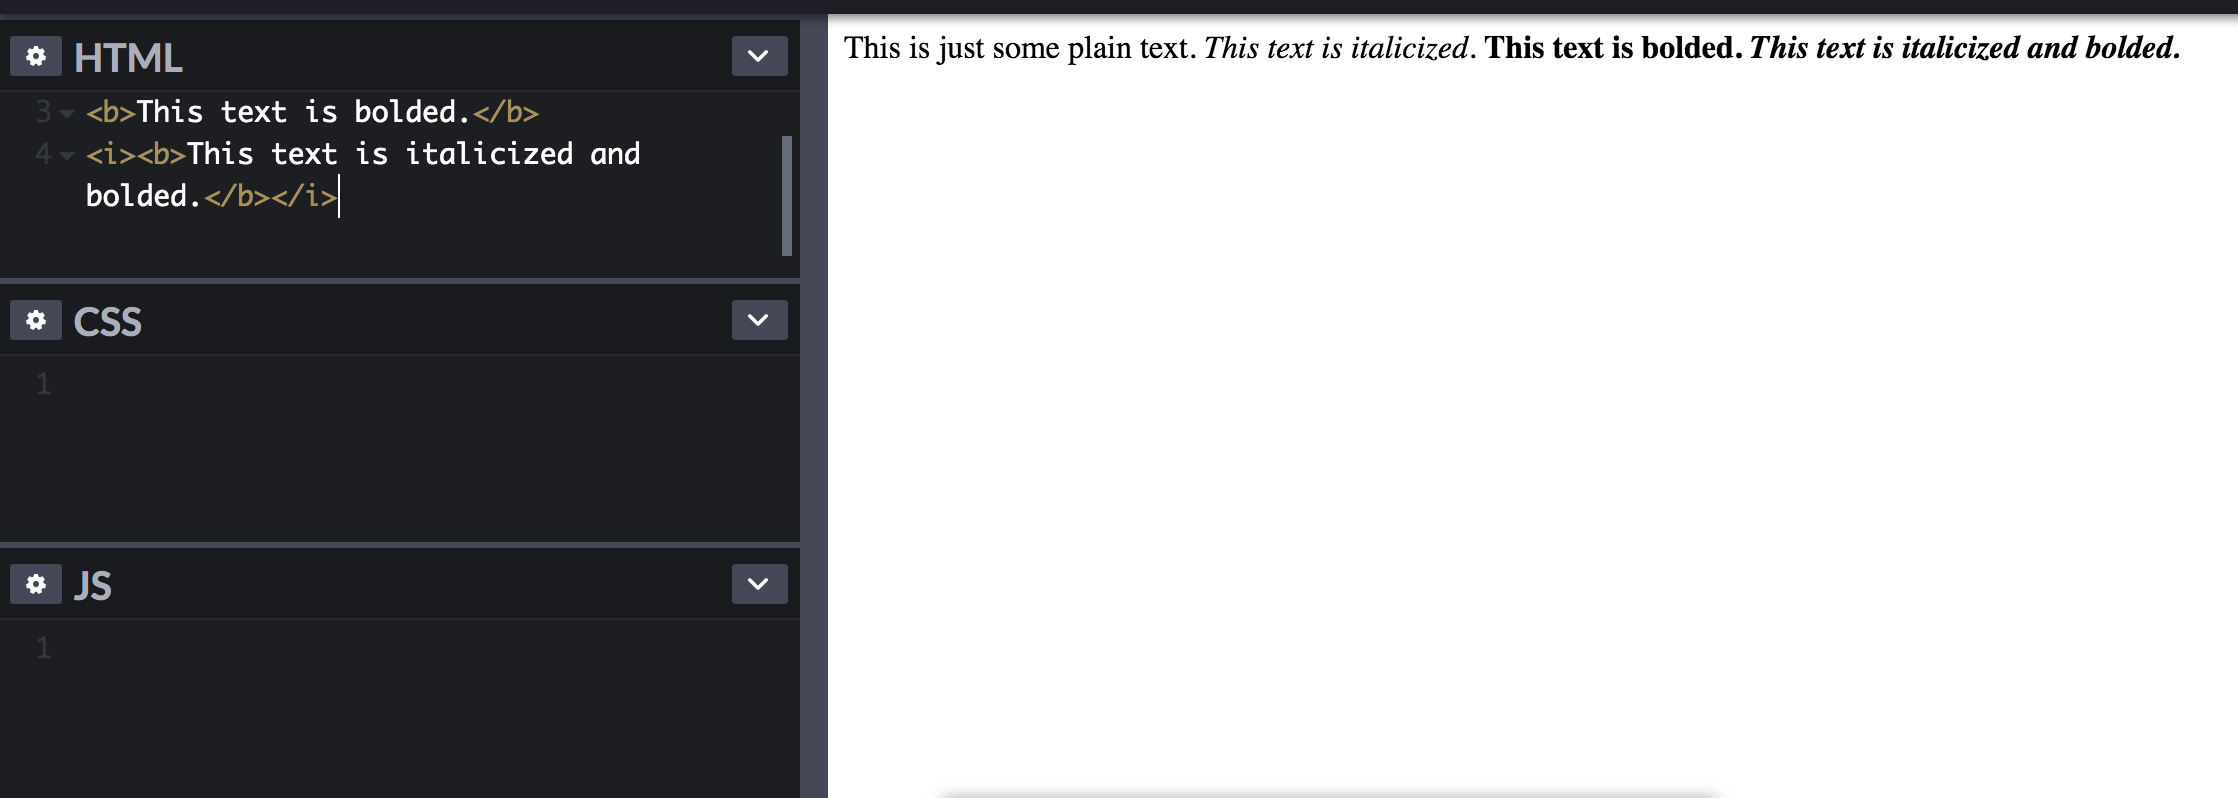
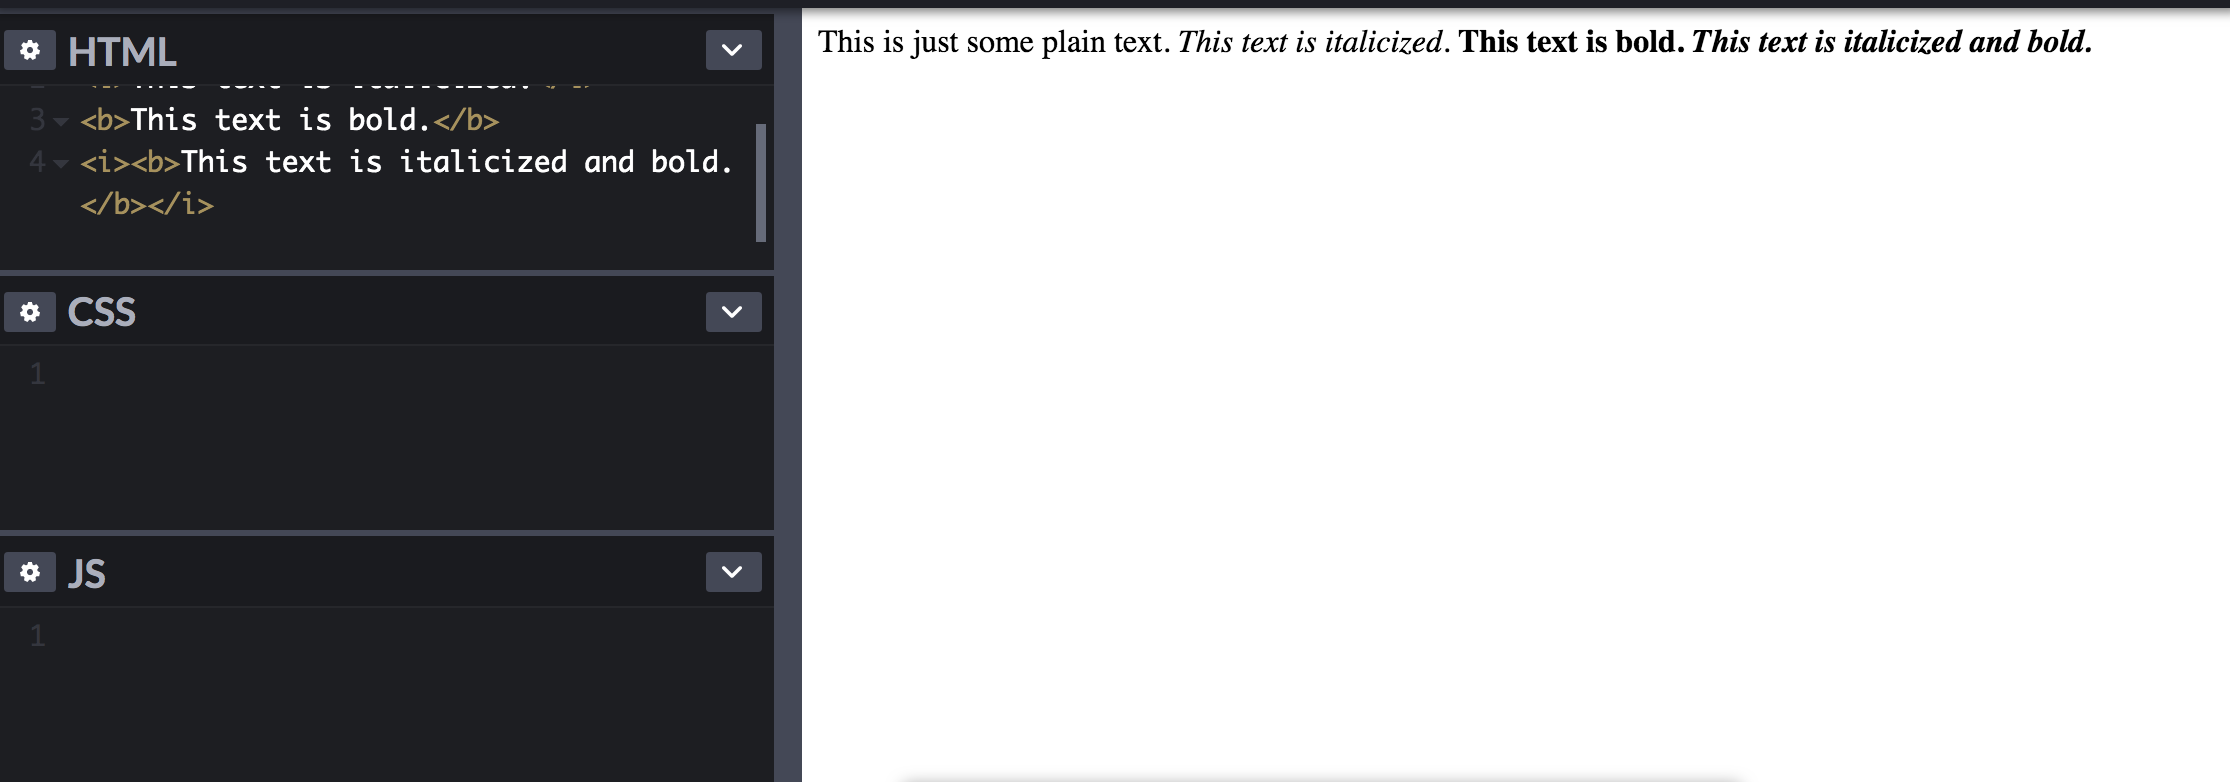
bold instead of bolded

Changed region(s): [[0.0, 0.0, 1.0, 1.0], [0.0, 0.7059, 0.0619, 0.7673]]

diff --git a/vol2/index.php b/vol2/index.php
@@ -244,8 +244,8 @@ stepheader('note-i-b', 'Italics and bold'); ?>
 
 <? prehtml("This is just some plain text.
 <i>This text is italicized.</i>
-<b>This text is bolded.</b>
-<i><b>This text is italicized and bolded.</b></i>") ?>
+<b>This text is bold.</b>
+<i><b>This text is italicized and bold.</b></i>") ?>
 
     <? screenshot_vol2('codepen-i-b.png', True, True) ?>
 
@@ -256,7 +256,7 @@ stepheader('note-i-b', 'Italics and bold'); ?>
 
     <p>Notice how in the HTML pane, each sentence is on its own line, yet in the web-page pane each sentence appears one after the other.</p>
 
-    <p>I assume, at this point, that you have gotten the hang of using CodePen.
+    <p>On another note, I assume, at this point, that you have gotten the hang of using CodePen.
         Therefore, henceforth, I will not display screenshots of CodePen. Rather,
     I will just display what the web-page pane should show. For example, for this step,
     the web-page pane should look something like:</p>
@@ -265,8 +265,8 @@ stepheader('note-i-b', 'Italics and bold'); ?>
     <div class="html-page">
 This is just some plain text.
 <i>This text is italicized.</i>
-<b>This text is bolded.</b>
-<i><b>This text is italicized and bolded.</b></i>
+<b>This text is bold.</b>
+<i><b>This text is italicized and bold.</b></i>
     </div>
 
 
@@ -282,7 +282,7 @@ stepheader('note-p-tag', 'Paragraphs'); ?>
   <i>This text is italicized.</i>
 </p>
 <p>
-  <b>This text is bolded.</b>
+  <b>This text is bold.</b>
 </p>") ?>
 
     <div class="html-page">
@@ -290,7 +290,7 @@ stepheader('note-p-tag', 'Paragraphs'); ?>
   <i>This text is italicized.</i>
 </p>
 <p>
-  <b>This text is bolded.</b>
+  <b>This text is bold.</b>
 </p>
     </div>
 
